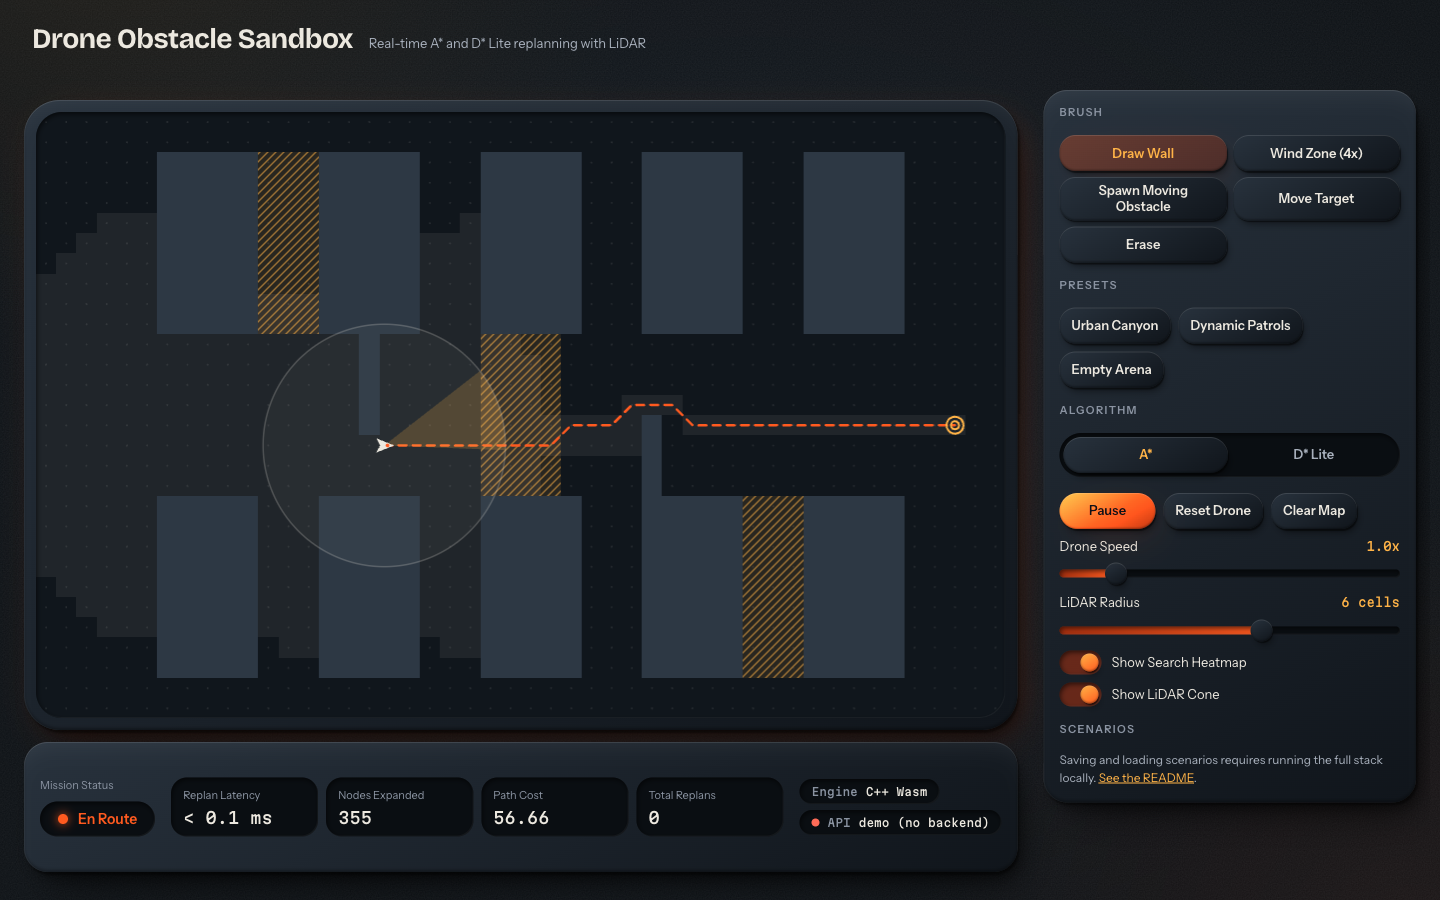
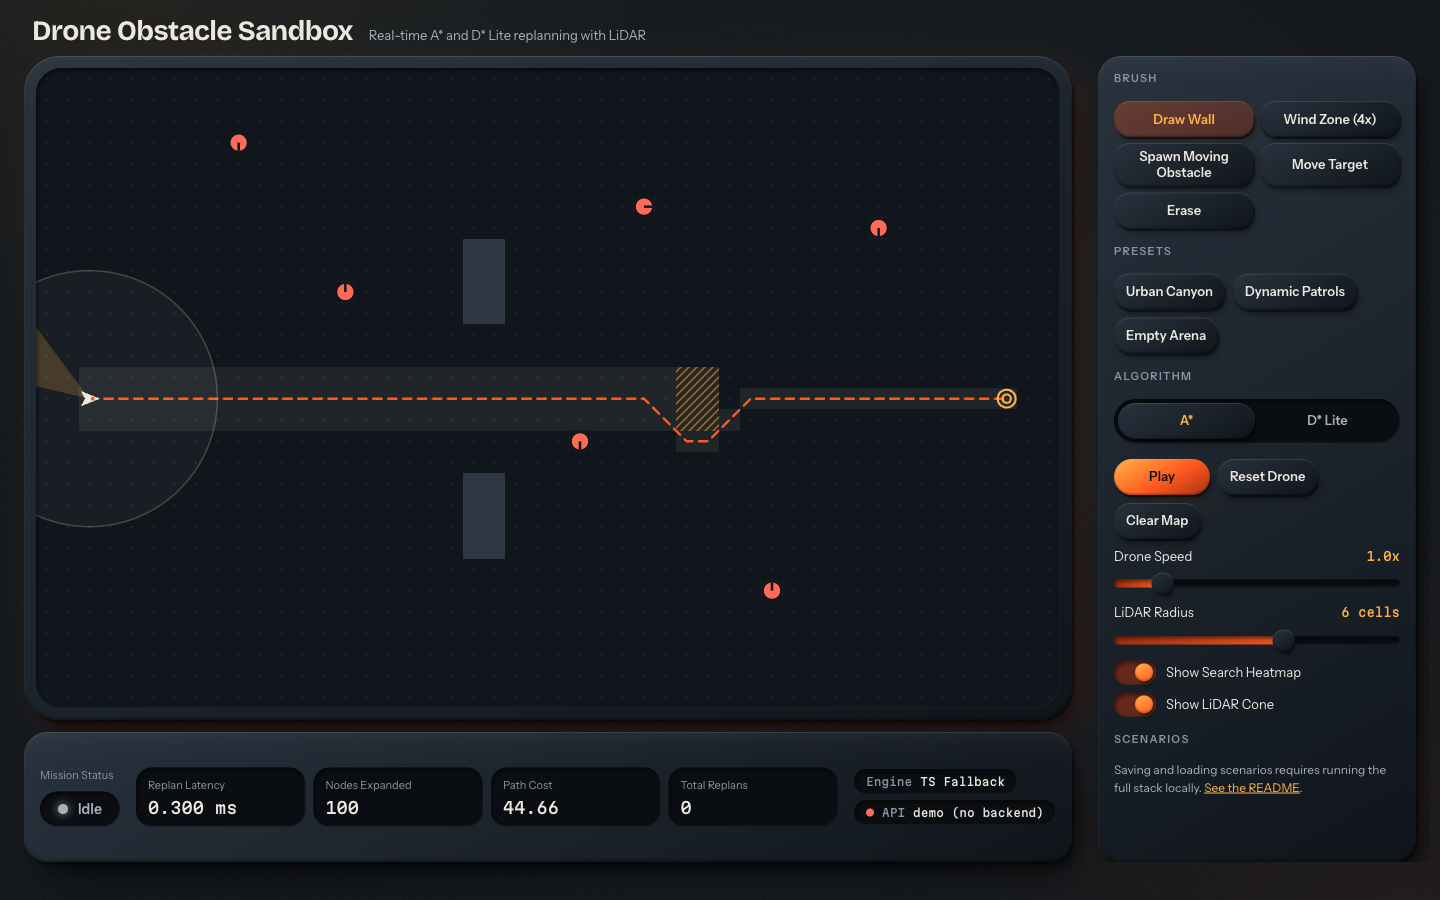
feat: tighter desktop header, aligned column tops and bottoms

diff --git a/web/src/styles.css b/web/src/styles.css
@@ -246,12 +246,17 @@ input[type='range']::-moz-range-thumb {
 @media (min-width: 1024px) {
   :root { --strip-h: 130px; }
   html, body { overflow: hidden; }
-  .app { height: 100dvh; min-height: 0; padding-bottom: var(--space-4); }
-  main { flex: 1; min-height: 0; grid-template-columns: minmax(0, 1fr) clamp(320px, 26vw, 400px); gap: var(--space-5); align-items: stretch; }
-  /* chrome = header 48 + app padding 32 + gaps 16 + 12 + strip + stage bezel 24 */
-  .deck { width: min(100%, calc((100dvh - 48px - 32px - 16px - 12px - var(--strip-h) - 24px) * 1.6 + 24px)); }
-  .console {
-    overflow-y: auto; scrollbar-width: none; padding: 2px 14px 44px 2px; margin-right: -14px;
+  .app { height: 100dvh; min-height: 0; padding-top: 16px; padding-bottom: 16px; gap: 12px; }
+  header { height: 28px; }
+  /* main sizes to the map deck (row = deck height) and shrinks only when the viewport is shorter; the console stretches to the deck bottom */
+  main { flex: 0 1 auto; min-height: 0; grid-template-rows: minmax(0, auto); grid-template-columns: minmax(0, 1fr) clamp(320px, 22vw, 380px); gap: var(--space-5); align-items: stretch; }
+  /* chrome = app padding 32 + header 28 + gap 12 + deck gap 12 + strip + stage bezel 24; deck is top-aligned so both columns share a top */
+  .deck { margin: 0 auto; width: min(100%, calc((100dvh - 32px - 28px - 12px - 12px - var(--strip-h) - 24px) * 1.6 + 24px)); }
+  .console { overflow-y: auto; scrollbar-width: none; padding: 0 14px 0 2px; margin-right: -14px; }
+  .console > .panel { flex: 1 0 auto; }
+  /* The fade only applies when the console really scrolls (data-scroll set from App), so the aligned bottom edge stays crisp otherwise. */
+  .console[data-scroll] {
+    padding-bottom: 44px;
     -webkit-mask-image: linear-gradient(to bottom, #000 calc(100% - 44px), transparent);
     mask-image: linear-gradient(to bottom, #000 calc(100% - 44px), transparent);
   }

diff --git a/web/src/App.tsx b/web/src/App.tsx
@@ -69,6 +69,19 @@ export function App() {
     return () => { alive = false; clearInterval(id); };
   }, []);
 
+  /** Marks the console as scrollable so CSS only fades its bottom edge when content is actually clipped. */
+  const consoleRef = useRef<HTMLElement>(null);
+  useEffect(() => {
+    const el = consoleRef.current;
+    if (!el) return;
+    const update = () => el.toggleAttribute('data-scroll', el.scrollHeight > el.clientHeight + 1);
+    update();
+    const ro = new ResizeObserver(update);
+    ro.observe(el);
+    if (el.firstElementChild) ro.observe(el.firstElementChild);
+    return () => ro.disconnect();
+  }, [sim]);
+
   const refreshScenarios = useCallback(() => {
     listScenarios().then(setScenarios).catch(() => setApiOnline(false));
   }, []);
@@ -129,7 +142,7 @@ export function App() {
             <TelemetryHud engine={sim.planner.mode} stats={stats} apiOnline={apiOnline} demo={isDemoMode()} />
           </div>
         </div>
-        <aside className="console">
+        <aside className="console" ref={consoleRef}>
           <ControlPanel
             brush={brush} onBrush={setBrush}
             mode={mode} onMode={setMode}

diff --git a/docs/reports/ui-foundation.md b/docs/reports/ui-foundation.md
@@ -7,7 +7,7 @@ Branch `feat/ui-foundation`. Scope: tokens, fonts, springs, stage layout, the 39
 - `web/src/styles/tokens.css`: palette (stage `#0C1014` family, surfaces, warm paper text, paint `#FF5A1F` / hi `#FFB347` / deep `#A8300F`, status green and ember), radius ladder 10/16/24/36/pill, bevel / well / contact-shadow / rim tokens lit from the top left, and the two springs as CSS `linear()` easings. `styles/tokens.test.ts` regenerates the springs from `spring.ts` and fails if the CSS drifts.
 - `web/src/styles/fonts.css` + `web/src/assets/fonts/`: Bricolage Grotesque 700, Instrument Sans 400/600, Martian Mono 400/500, latin subset woff2 from Fontsource 5.3.0 (77 KB total), all OFL-1.1, licence texts in `assets/fonts/LICENSE`. URLs go through Vite so they respect `VITE_BASE`.
 - `web/src/motion/spring.ts`: soft (90/12, about 880 ms, about 7.7% overshoot) and snappy (520/30, about 350 ms), `springStep`, `stepResponse`, `springEase`, `springToLinear`, `tween` (cancellable, injectable clock) and `prefersReducedMotion`.
-- Layout (`styles.css`, `App.tsx`, `TelemetryHud.tsx`, `DroneCanvas.tsx`): at 1024 px and up the app is exactly one viewport high (`100dvh`, no page scroll). The left column is the map stage with an instrument strip directly under it (status lamp, four readouts, Engine and API pills in one 130 px row). The map keeps its 48:30 aspect ratio, is sized by min(width, height) and is centred, so there is no dead band. The right column is the console only; it scrolls internally with a soft bottom fade mask and a hidden scrollbar. At 1440x900 everything from Brush to the overlay toggles (and Scenarios) is visible without scrolling. Header is 48 px with the subtitle on the same baseline. Below 1024 px it is one column: map, then the telemetry strip (status plus 2x2 readouts), then the console. At 390x844 the map is 358 px wide (8 px app padding plus 8 px bezel), `scrollWidth == clientWidth`, whole map visible. The old 390 px bug (fixed-height stage, integer cell sizes) is fixed.
+- Layout (`styles.css`, `App.tsx`, `TelemetryHud.tsx`, `DroneCanvas.tsx`): at 1024 px and up the app is exactly one viewport high (`100dvh`, no page scroll). The left column is the map stage with an instrument strip directly under it (status lamp, four readouts, Engine and API pills in one 130 px row). The map keeps its 48:30 aspect ratio, is sized by min(width, height) and is centred, so there is no dead band. The right column is the console only; it scrolls internally with a soft bottom fade mask and a hidden scrollbar. At 1440x900 everything from Brush to the overlay toggles (and Scenarios) is visible without scrolling. Round 2: on desktop the header block is 16 px top padding plus a 28 px title row plus a 12 px gap, so both columns start at y=56 (was 100) and the stage is 664 px tall at 1440x900 (was 630). The console column is 334 px (22vw, clamped 320-380) so the map gets the width; the console stretches to the strip bottom (both end at y=862) and its bottom fade mask applies only when it actually scrolls (`data-scroll`, set from a ResizeObserver in `App.tsx`). On mobile the header is 48 px with the subtitle on the same baseline. Below 1024 px it is one column: map, then the telemetry strip (status plus 2x2 readouts), then the console. At 390x844 the map is 358 px wide (8 px app padding plus 8 px bezel), `scrollWidth == clientWidth`, whole map visible. The old 390 px bug (fixed-height stage, integer cell sizes) is fixed.
 - Stage backdrop: three static light pools plus SVG grain; the grain drift animation is off under `prefers-reduced-motion`. Verified in Chromium with `emulateMedia({reducedMotion:'reduce'})`: computed `animation-name` is `none` on `body::after`, and `transition-duration` is `0s` on `.btn`, `.seg button`, `.toggle input` and its pseudo-elements.
 - Panels and controls restyled to rounded bevelled surfaces: telemetry readouts as wells, pill status lamp, bevelled buttons, orange primary, pill segmented control, custom range sliders and toggle switches (still real `input` elements). Focus rings use the amber token.
 - Loop hygiene (`render/loopControl.ts`, pure and tested): DPR capped at 2, rAF loop stopped when the canvas is off screen (IntersectionObserver) or the tab is hidden, clock rebased on resume with dt clamped to 50 ms.
